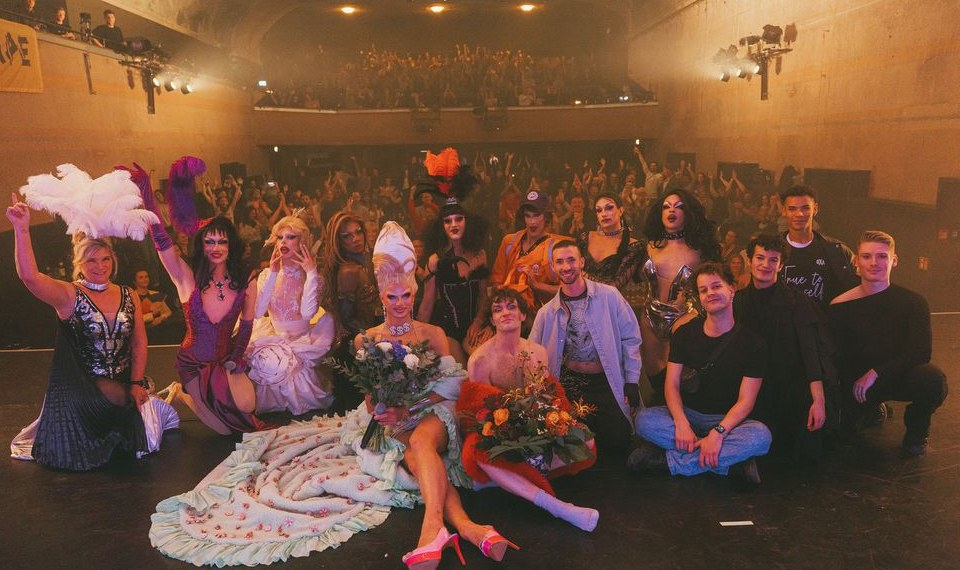
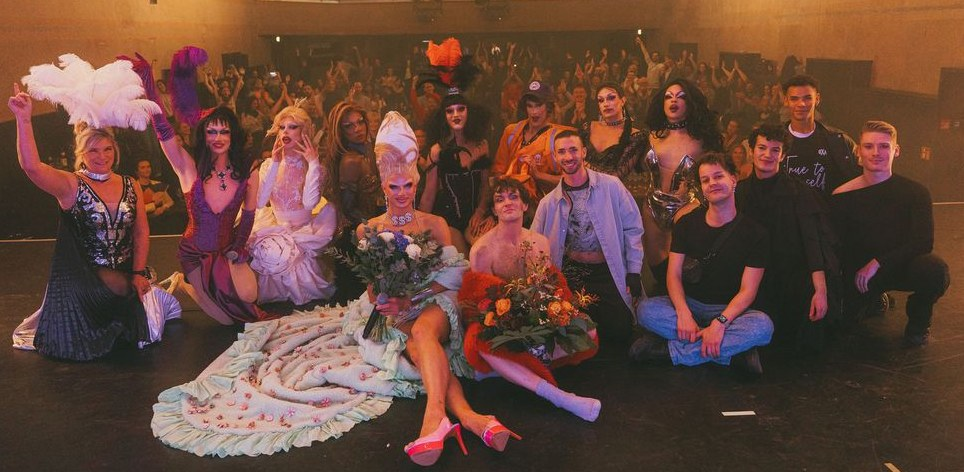
Gruppenfoto Kollektiv enger zugeschnitten
Claude-Session: https://claude.ai/code/session_011roMvz3bhBK9sX119UmQVK

diff --git a/kollektiv.html b/kollektiv.html
@@ -81,7 +81,7 @@
           <p>Seitdem feiert DUCT TAPE jedes Jahr Ende September eine große Birthday Show. Aus einem spontanen Projekt ist eine etablierte Marke für große Drag- und Performanceformate in Berlin geworden.</p>
         </div>
         <div>
-          <figure class="kv-group"><img src="assets/img/kollektiv/geburtstag-3.jpg" width="960" height="570" alt="Die Drag Queens von DUCT TAPE mit Gästen und Team auf der Bühne des Theater im Delphi in Berlin bei der Show zum dritten Geburtstag" loading="lazy"><figcaption class="q-credit">© Taron Kolywanow</figcaption></figure>
+          <figure class="kv-group"><img src="assets/img/kollektiv/geburtstag-3.jpg?v=2" width="964" height="472" alt="Die Drag Queens von DUCT TAPE mit Gästen und Team auf der Bühne des Theater im Delphi in Berlin bei der Show zum dritten Geburtstag" loading="lazy"><figcaption class="q-credit">© Taron Kolywanow</figcaption></figure>
         </div>
       </div>
     </div>

diff --git a/en/collective.html b/en/collective.html
@@ -81,7 +81,7 @@
           <p>Since then DUCT TAPE has celebrated a big birthday show at the end of every September. A spontaneous project has become an established name for large-scale drag and performance formats in Berlin.</p>
         </div>
         <div>
-          <figure class="kv-group"><img src="../assets/img/kollektiv/geburtstag-3.jpg" width="960" height="570" alt="The drag queens of DUCT TAPE with guests and crew on stage at Theater im Delphi, Berlin, at the third anniversary show" loading="lazy"><figcaption class="q-credit">© Taron Kolywanow</figcaption></figure>
+          <figure class="kv-group"><img src="../assets/img/kollektiv/geburtstag-3.jpg?v=2" width="964" height="472" alt="The drag queens of DUCT TAPE with guests and crew on stage at Theater im Delphi, Berlin, at the third anniversary show" loading="lazy"><figcaption class="q-credit">© Taron Kolywanow</figcaption></figure>
         </div>
       </div>
     </div>
